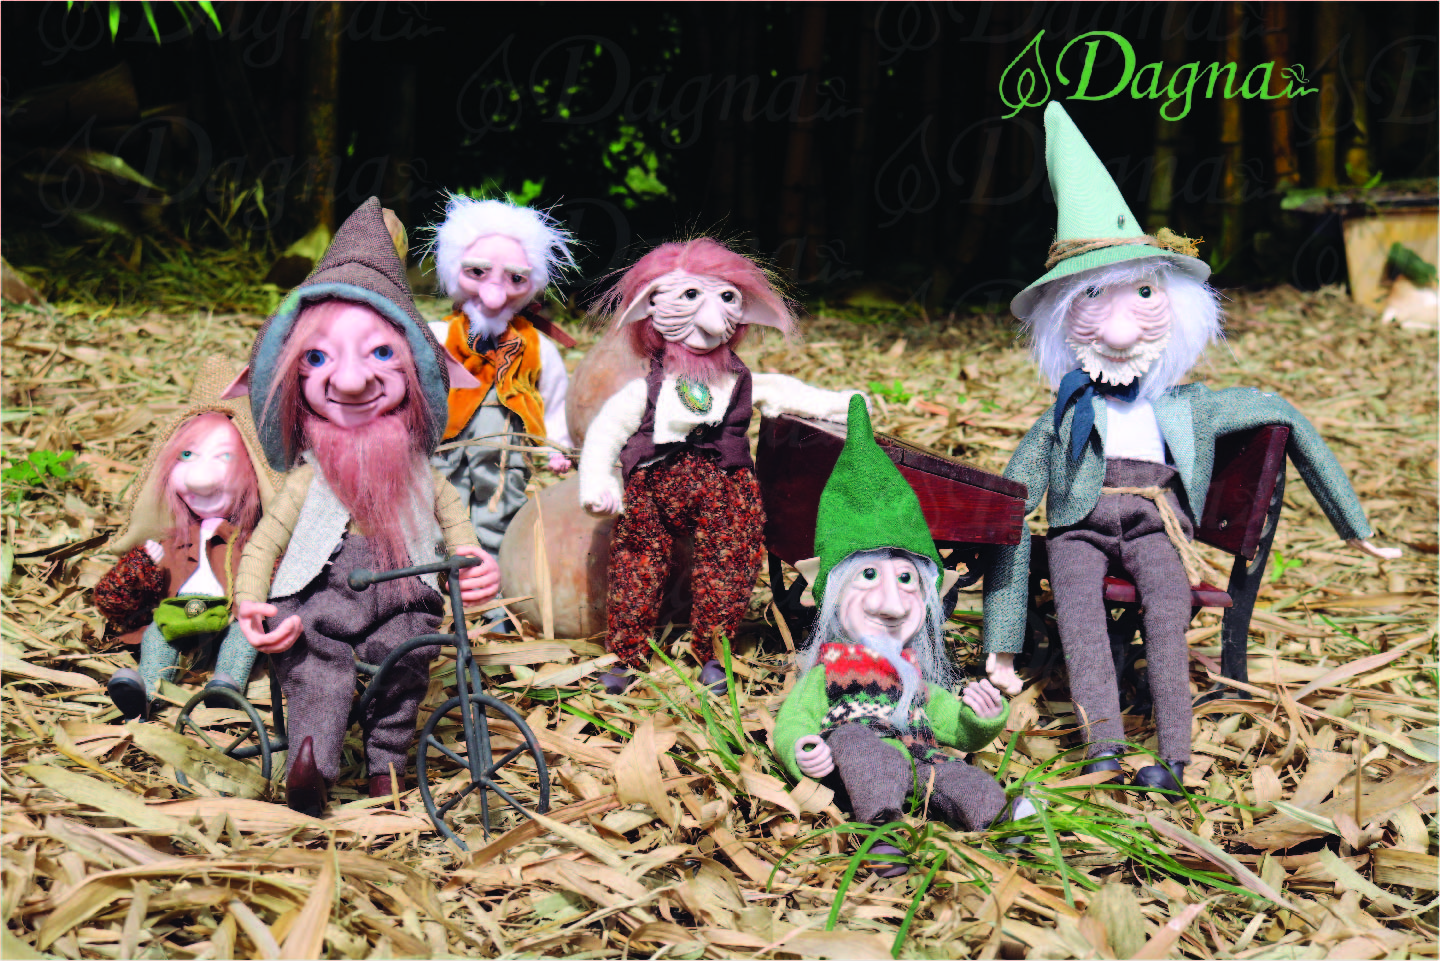
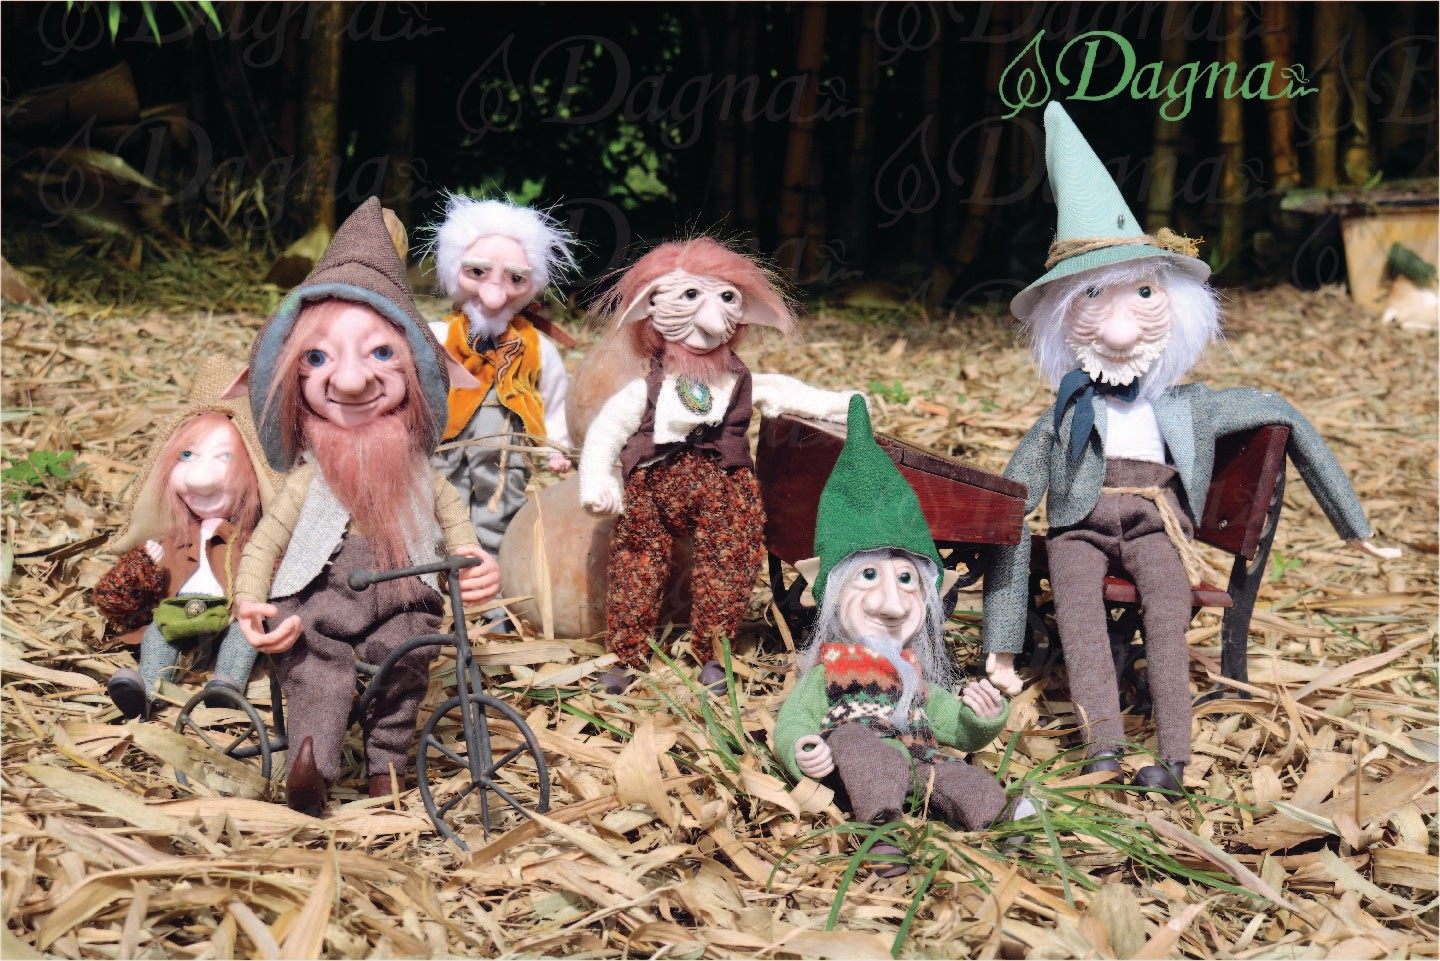
Fix CMYK color profile on product photos, remove duplicate Merlin/Wilfrido entry

diff --git a/frontend/src/components/ProductGrid.ts b/frontend/src/components/ProductGrid.ts
@@ -35,17 +35,6 @@ const products: Product[] = [
     image: "/products/fortunato-hojaverde.jpg",
   },
   {
-    name: "Merlin Tallofuerte",
-    category: "Duende Guardián",
-    age: "210 años",
-    height: "33 cm",
-    origin: "Raíces que sostienen árboles centenarios",
-    specialPower: "Sostenerte con una sonrisa, incluso en los días difíciles.",
-    description:
-      "Merlin es el más animado del grupo — siempre con una historia nueva y las manos abiertas, listo para ayudar.",
-    image: "/products/merlin-tallofuerte.jpg",
-  },
-  {
     name: "Tobías Matute",
     category: "Duende Trotamundos",
     age: "58 años",
